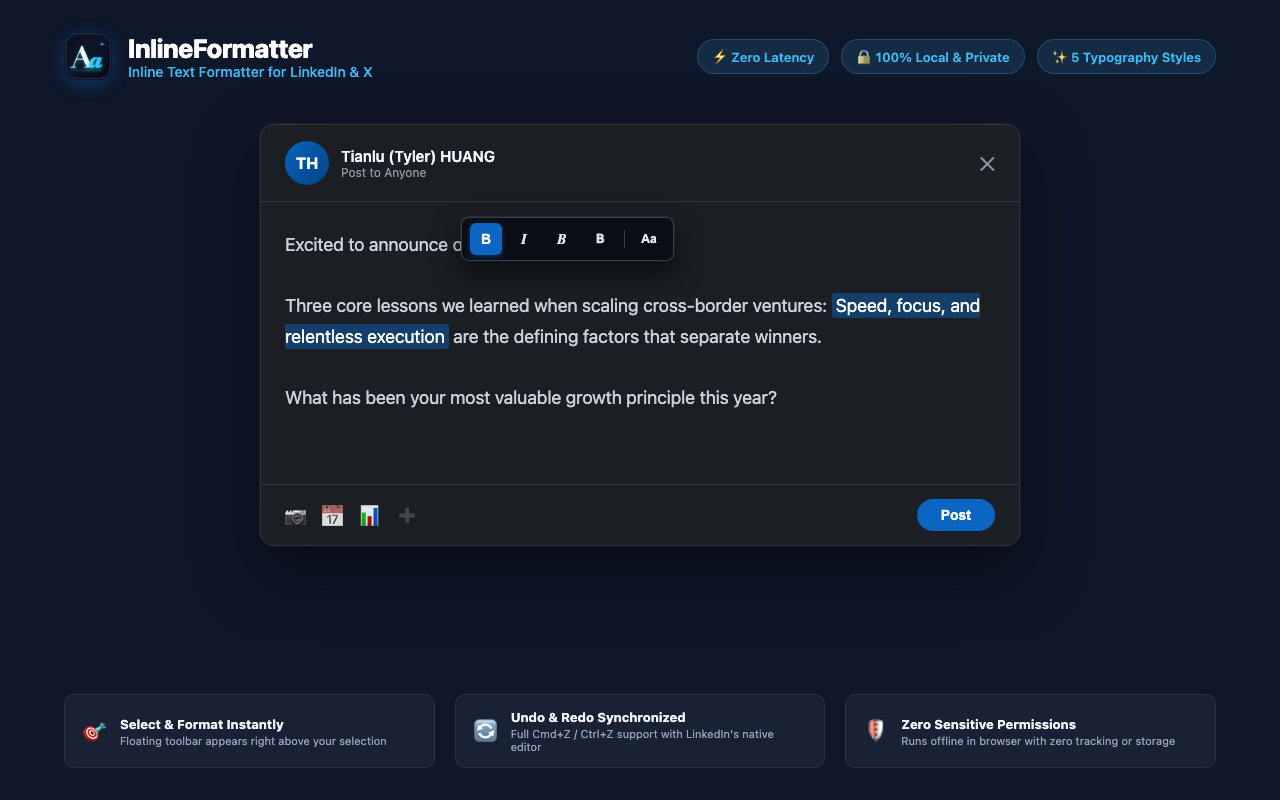
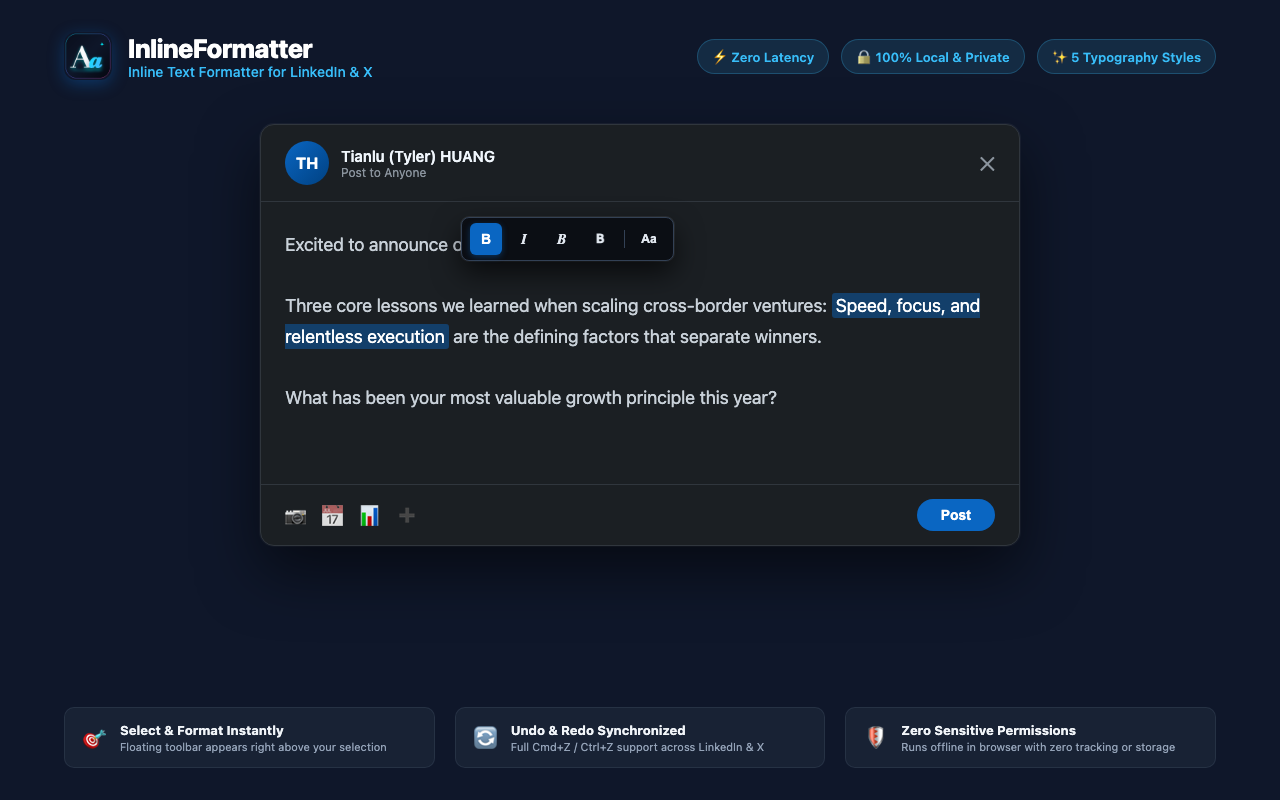
chore: regenerate all visual assets with InlineFormatter branding and dual-platform examples

Changed region(s): [[0.3438, 0.875, 0.5938, 0.9375], [0.6562, 0.875, 0.9375, 0.9375], [0.0625, 0.875, 0.3125, 0.9375]]

diff --git a/scripts/generate-assets.js b/scripts/generate-assets.js
@@ -312,7 +312,7 @@ const html1 = `<!DOCTYPE html>
       <div class="b-icon">🔄</div>
       <div class="b-text">
         <h5>Undo & Redo Synchronized</h5>
-        <p>Full Cmd+Z / Ctrl+Z support with LinkedIn's native editor</p>
+        <p>Full Cmd+Z / Ctrl+Z support across LinkedIn & X</p>
       </div>
     </div>
     <div class="b-card">
@@ -574,7 +574,7 @@ const html2 = `<!DOCTYPE html>
           <div class="style-key">B</div>
           <div class="style-label">Serif Bold</div>
         </div>
-        <div class="style-output">𝐇𝐞𝐥𝐥𝐨 𝐋𝐢𝐧𝐤𝐞𝐝𝐈𝐧 𝐂𝐨𝐦𝐦𝐮𝐧𝐢𝐭𝐲</div>
+        <div class="style-output">𝐇𝐞𝐥𝐥𝐨 𝐋𝐢𝐧𝐤𝐞𝐝𝐈𝐧 & 𝐗</div>
       </div>
 
       <div class="style-row">
@@ -582,7 +582,7 @@ const html2 = `<!DOCTYPE html>
           <div class="style-key" style="font-style: italic;">I</div>
           <div class="style-label">Serif Italic</div>
         </div>
-        <div class="style-output">𝐻𝑒𝑙𝑙𝑜 𝐿𝑖𝑛𝑘𝑒𝑑𝐼𝑛 𝐶𝑜𝑚𝑚𝑢𝑛𝑖𝑡𝑦</div>
+        <div class="style-output">𝐻𝑒𝑙𝑙𝑜 𝐿𝑖𝑛𝑘𝑒𝑑𝐼𝑛 & 𝑋</div>
       </div>
 
       <div class="style-row">
@@ -590,7 +590,7 @@ const html2 = `<!DOCTYPE html>
           <div class="style-key" style="font-style: italic;">B</div>
           <div class="style-label">Serif Bold Italic</div>
         </div>
-        <div class="style-output">𝑯𝒆𝒍𝒍𝒐 𝑳𝒊𝒏𝒌𝒆𝒅𝑰𝒏 𝑪𝒐𝒎𝒎𝒖𝒏𝒊𝒕𝒚</div>
+        <div class="style-output">𝑯𝒆𝒍𝒍𝒐 𝑳𝒊𝒏𝒌𝒆𝒅𝑰𝒏 & 𝑿</div>
       </div>
 
       <div class="style-row">
@@ -598,7 +598,7 @@ const html2 = `<!DOCTYPE html>
           <div class="style-key">𝗕</div>
           <div class="style-label">Sans-Serif Bold</div>
         </div>
-        <div class="style-output">𝗛𝗲𝗹𝗹𝗼 𝗟𝗶𝗻𝗸𝗲𝗱𝗜𝗻 𝗖𝗼𝗺𝗺𝘂𝗻𝗶𝘁𝘆</div>
+        <div class="style-output">𝗛𝗲𝗹𝗹𝗼 𝗟𝗶𝗻𝗸𝗲𝗱𝗜𝗻 & 𝗫</div>
       </div>
 
       <div class="style-row">
@@ -606,7 +606,7 @@ const html2 = `<!DOCTYPE html>
           <div class="style-key">Aa</div>
           <div class="style-label">One-Click Revert</div>
         </div>
-        <div class="style-output" style="color: #94A3B8;">Hello LinkedIn Community</div>
+        <div class="style-output" style="color: #94A3B8;">Hello LinkedIn & X</div>
       </div>
     </div>
 
@@ -622,7 +622,7 @@ const html2 = `<!DOCTYPE html>
           </div>
         </div>
         <div class="pop-hint">
-          Highlight any text in LinkedIn post composer to open toolbar.
+          Highlight text on LinkedIn or X (Twitter) to format instantly.
         </div>
         <div class="pop-creator">
           <div class="pop-c-label">Creator & Open Source</div>
@@ -756,6 +756,7 @@ runScreenshot(
   1280,
   800
 );
+fs.copyFileSync(path.join(assetsDir, 'screenshot-1-toolbar.png'), path.join(assetsDir, 'screenshot-1.png'));
 
 runScreenshot(
   path.join(tempDir, 'screen2.html'),
@@ -763,6 +764,7 @@ runScreenshot(
   1280,
   800
 );
+fs.copyFileSync(path.join(assetsDir, 'screenshot-2-styles.png'), path.join(assetsDir, 'screenshot-2.png'));
 
 runScreenshot(
   path.join(tempDir, 'promo.html'),
@@ -773,4 +775,16 @@ runScreenshot(
 
 // 清理临时 html
 fs.rmSync(tempDir, { recursive: true, force: true });
-console.log('✓ All visual assets generated successfully in store-assets/');
+
+// 自动同步最新图片至 iCloud 商店素材目录
+const icloudDir = '/Users/tylerh/Library/Mobile Documents/com~apple~CloudDocs/Formatly_Store_Assets';
+if (fs.existsSync(icloudDir)) {
+  fs.copyFileSync(path.join(assetsDir, 'screenshot-1.png'), path.join(icloudDir, 'screenshot-1.png'));
+  fs.copyFileSync(path.join(assetsDir, 'screenshot-1-toolbar.png'), path.join(icloudDir, 'screenshot-1-toolbar.png'));
+  fs.copyFileSync(path.join(assetsDir, 'screenshot-2.png'), path.join(icloudDir, 'screenshot-2.png'));
+  fs.copyFileSync(path.join(assetsDir, 'screenshot-2-styles.png'), path.join(icloudDir, 'screenshot-2-styles.png'));
+  fs.copyFileSync(path.join(assetsDir, 'promo-tile-440x280.png'), path.join(icloudDir, 'promo-tile-440x280.png'));
+  console.log('☁ Synced all screenshots & promo tile to iCloud Store Assets directory.');
+}
+
+console.log('✓ All visual assets generated successfully in store-assets/ and synced to iCloud.');
